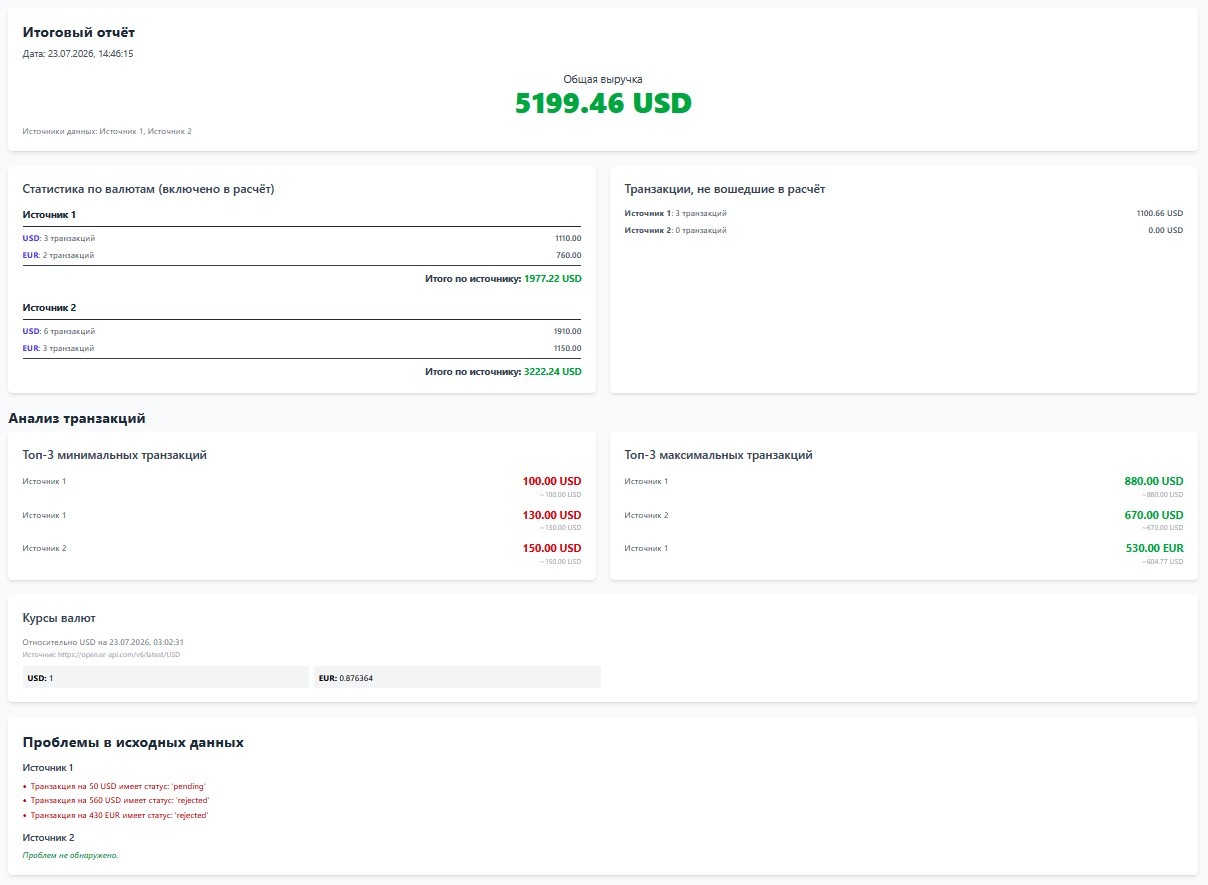
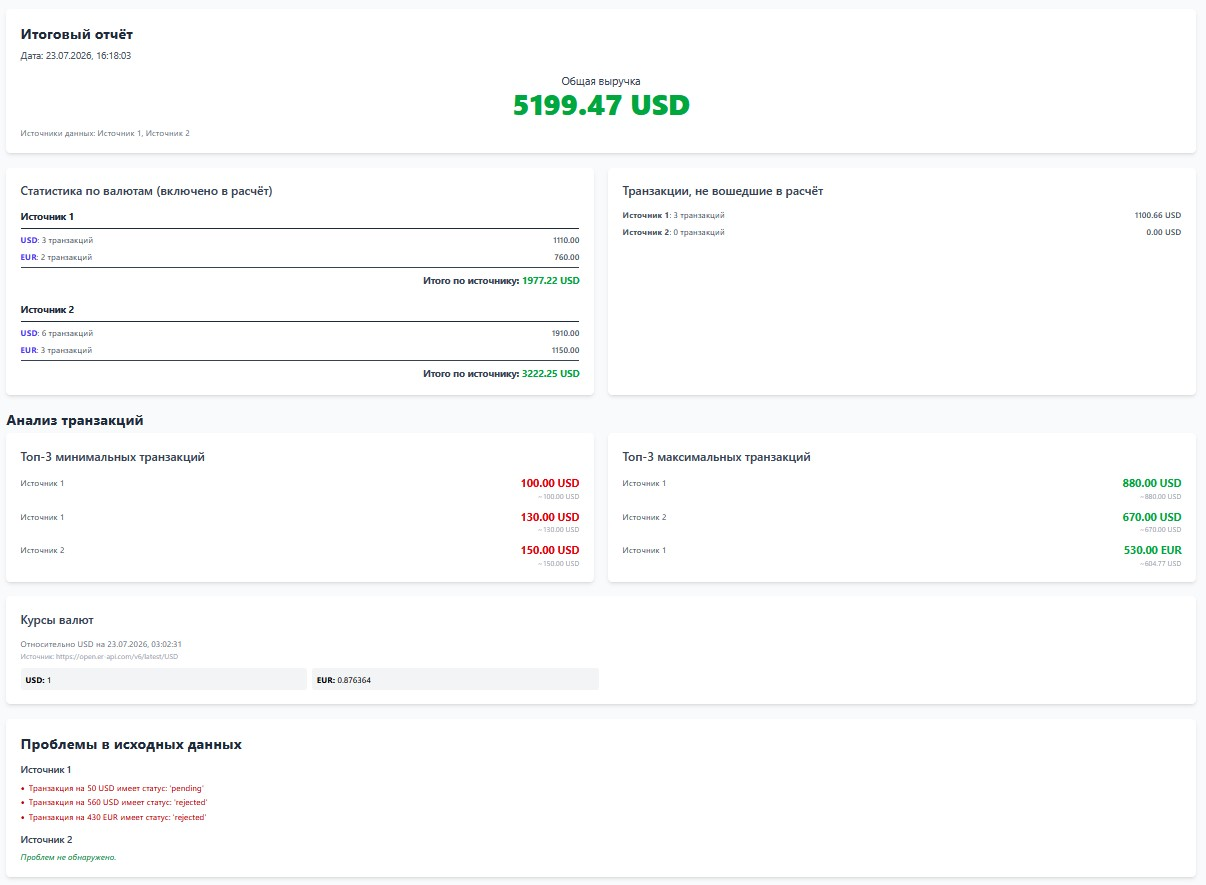
Step 06: Upd Homework 03 2026-07-23 (vite-project-2026-07-23.md)

diff --git a/vite-project/vite-project-2026-07-23.md b/vite-project/vite-project-2026-07-23.md
@@ -42,7 +42,62 @@
 
 > Промта 3 - 4 что бі докрутить функционал
 
+### Prompt 4 (От Ивана про проблему округления и плавающей точки в финансах)
+
+В каждом домене (финансовый, тревел, юридический и тп) есть свои правила. Как быть с проблемой округления и плавающей точки в финансах?
+
+Сейчас мы до 2 знаков округляэм, курсы 6 знаков после запятой. Как выводить в браузер и как промежуточные расчёты?
+
+### Prompt 5 (Продолжение Prompt 4)
+
+Ранее до рефакторинга у нас было 5199.46, а сейчас стало 5199.47. Я так думаю, что это из-за того, что у нас промежуточные вычисления с 2 знаками после запятой дали такое.
+
 ## Решение
+
+### Prompt 4 (От Ивана про проблему округления и плавающей точки в финансах)
+
+Проблема: почему нельзя использовать toFixed(2) и обычные числа для денег
+Короткий ответ: компьютеры не умеют точно хранить большинство десятичных дробей.
+
+Внутри JavaScript (как и во многих других языках) число 10.25 хранится не как "десять и двадцать пять", а в двоичном формате с плавающей точкой (стандарт IEEE 754). Этот формат приводит к микроскопическим ошибкам при вычислениях.
+
+Когда мы проводим десятки таких операций, а потом умножаем на курс валют с 6 знаками после запятой, эти ошибки накапливаются и могут привести к потере или появлению лишних центов, что в финансах недопустимо. Метод toFixed() лишь маскирует проблему для вывода, но не решает ее в процессе вычислений.
+
+Решение: работаем с деньгами как с целыми числами
+Профессиональный стандарт для работы с деньгами — полностью отказаться от чисел с плавающей точкой для хранения и расчетов. Вместо этого все операции проводятся в наименьших единицах валюты — центах (копейках, и т.д.).
+
+1. Хранение и расчеты: Сумма $19.99 хранится и передается между функциями как целое число 1999.
+2. Конвертация на входе: Как только мы получаем данные из внешнего мира (API, база данных), мы немедленно преобразуем их в центы: Math.round(amount \* 100).
+3. Конвертация на выходе: Когда нужно показать сумму пользователю в интерфейсе, мы делаем обратное преобразование: (amountInCents / 100).toFixed(2).
+   Этот подход гарантирует, что в процессе всех промежуточных вычислений мы работаем с целыми числами, избегая ошибок округления.
+
+Давай внедрим этот надежный паттерн в наш проект.
+
+### Prompt 5 (Продолжение Prompt 4)
+
+Ты абсолютно прав, и это отличный, очень глубокий вопрос. То, что ты заметил эту разницу в 1 цент, показывает, почему наш рефакторинг на работу с центами был таким критически важным.
+
+Твоя догадка верна — всё дело в разном подходе к вычислениям и округлению.
+
+Почему так произошло: Старый vs Новый метод
+Старый метод (рискованный, результат ...46)
+Раньше мы работали с числами с плавающей точкой. Процесс выглядел так:
+
+Суммировались все транзакции в одной валюте (например, 1910 EUR).
+Эта общая сумма конвертировалась в USD, порождая длинную дробь (например, 1910 EUR / 0.923... = 2068.31908... USD).
+Эта "длинная" сумма складывалась с другой "длинной" суммой.
+Только в самом конце мы применяли toFixed(2), который просто "отрезал" хвост у финального числа.
+Проблема в том, что на каждом шаге сложения и деления дробей накапливались микроскопические ошибки (как 0.1 + 0.2 = 0.30000000000000004). В итоге финальное округление могло дать неверный результат.
+
+Новый метод (правильный, результат ...47)
+Сейчас мы работаем как кассир в банке — оперируем наименьшей единицей, центом, и используем только целые числа.
+
+1. На входе: Каждая транзакция (amount: 230 EUR) немедленно превращается в целое число центов (amountInCents: 23000).
+2. При конвертации: Мы конвертируем центы в центы. Например, 23000 евро-центов делятся на курс (/ 0.923...), и результат немедленно округляется до ближайшего целого цента с помощью Math.round().
+3. Все расчеты: Вся дальнейшая математика (сложение, вычитание) — это операции с целыми числами, которые абсолютно точны и не имеют проблем с плавающей точкой.
+4. На выходе: Только в самый последний момент, для отображения пользователю, мы делим итоговую сумму в центах на 100.
+   Итог
+   Разница в 1 цент — это и есть та самая исправленная ошибка. Новый результат 5199.47 является более точным и правильным с точки зрения финансовых систем. Мы перешли от "приблизительной" математики с плавающей точкой к "точной" целочисленной математике в центах, как это и принято в профессиональной разработке.
 
 ```text
 vite-project/
